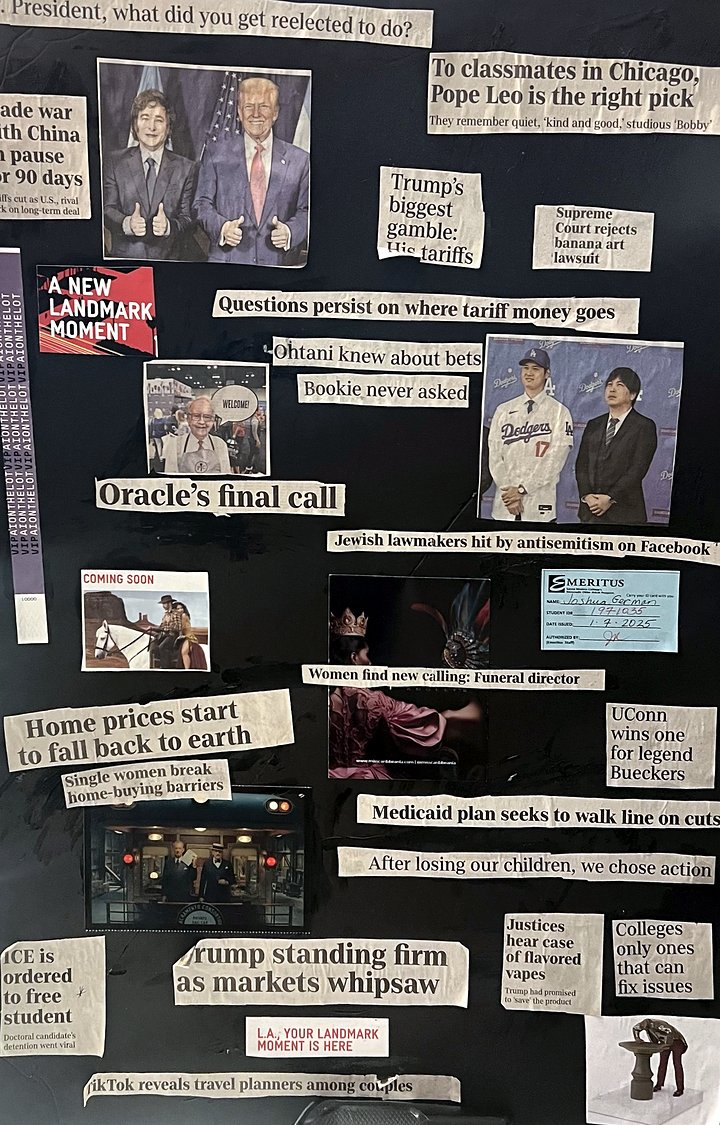
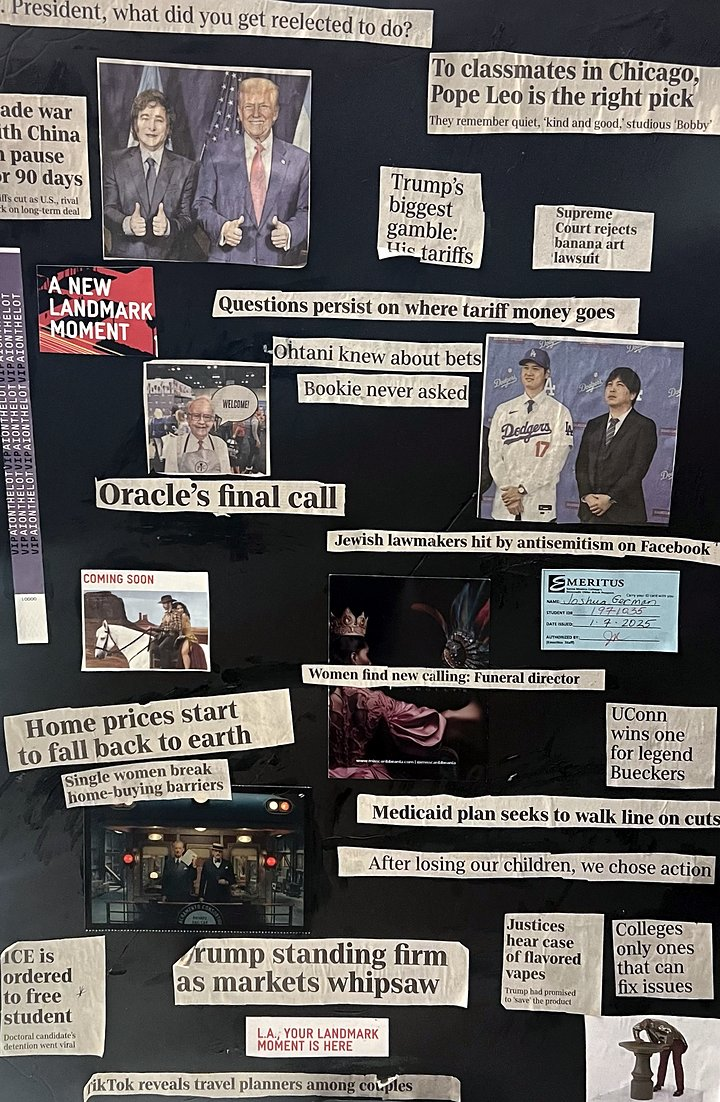
About copy, HIIKE/U&AI startup group, Art in In the Works + Shop, Media Diet page
- About: "I'm Joshua..." lede, "I'm a podcaster and producer", a little
  more detail (brands, the shows, collage).
- Map: pulse now scales around the LA dot (transform-box: fill-box)
  instead of flying in from the middle of the map.
- "The Curious & Creative Company" naming on the homepage and /network/;
  nav label "Curious & Creative".
- Brand Work: HIIKE (red wordmark) and U&AI side by side in a ringed
  "Startups · Brand & go-to-market" group; U&AI tagged Fractional Chief
  Marketing Officer. Nothing On Your Roof gets a local fallback image;
  MLB uses the real "Baseball Is Something Else" film (card + case study).
- Photography grid: the short edit never ends on a lonely half row.
- Art: collages moved into In the Works under "Art", framed, renamed
  (God's Message to You, The Adventure Above All); photos straightened
  and color-corrected; data/art.json drives the homepage and a new
  Shop Art section with inquiry links.
- Media Diet: Watching / Reading / Listening on the homepage, plus a
  full /media-diet/ page with tabs, sort, filters, search and paging.
  Sync keeps history, pages through Goodreads, drops Substack;
  Listening comes from data/listening.json.
- Contact: "Let's book your next thing." Nav switches to the menu
  button below 1120px so nothing overflows.

Claude-Session: https://claude.ai/code/session_01JxuDta5VUQ5NeC5EexMG8G

diff --git a/shop.html b/shop.html
@@ -270,10 +270,10 @@
 
 
         /* ---- Shop sections nav ---- */
-        .shop-sections { display: flex; gap: var(--s4); margin-top: var(--s5); padding-top: var(--s2); border-top: 1px solid var(--rule); }
+        .shop-sections { display: flex; flex-wrap: wrap; gap: 4px var(--s4); margin-top: var(--s5); padding-top: var(--s2); border-top: 1px solid var(--rule); }
         .shop-sections a { font-family: var(--mono); font-size: 0.64rem; font-weight: 700; letter-spacing: 0.18em; text-transform: uppercase; color: var(--ink-mid); padding: 6px 0; border-bottom: 1px solid transparent; transition: color .25s, border-color .25s; }
         .shop-sections a:hover { color: var(--ink); border-color: var(--ink); }
-        #prints, #photobooks, #photosets { scroll-margin-top: 84px; }
+        #prints, #photobooks, #photosets, #art { scroll-margin-top: 84px; }
 
         /* ---- Photo books ---- */
         .books-chapter, .sets-chapter { padding: var(--s7) 0; border-top: 1px solid var(--rule); }
@@ -321,6 +321,45 @@
         .pset-links { width: 100%; display: flex; flex-wrap: wrap; gap: 8px 22px; margin-top: 10px; }
         .pset-links a { font-family: var(--mono); font-size: 0.62rem; font-weight: 700; letter-spacing: .14em; text-transform: uppercase; border-bottom: 1px solid var(--rule); padding-bottom: 3px; }
         .pset-links a:hover { border-color: var(--ink); }
+        /* ---- Art: each collage hung like a framed piece on the wall ---- */
+        :root { --art-frame: #17140F; --art-mat: #FCFBF7; --art-shadow: rgba(23,21,18,0.30); }
+        :root[data-theme="dark"] { --art-frame: #060504; --art-mat: #EEEAE1; --art-shadow: rgba(0,0,0,0.62); }
+        :root[data-theme="dark"] .art-frame { outline: 1px solid rgba(240,234,224,0.10); }
+        .art-chapter { padding: var(--s7) 0; border-top: 1px solid var(--rule); }
+        .art-grid { display: grid; grid-template-columns: repeat(3, minmax(0, 1fr)); align-items: start; gap: clamp(44px, 6vw, 80px) clamp(28px, 4vw, 56px); margin-top: var(--s6); }
+        @media (max-width: 980px) { .art-grid { grid-template-columns: repeat(2, minmax(0, 1fr)); } }
+        @media (max-width: 620px) { .art-grid { grid-template-columns: minmax(0, 1fr); } }
+        .art-piece { display: flex; flex-direction: column; min-width: 0; }
+        /* frame (thin black moulding) > mat (white) > artwork */
+        .art-frame {
+            display: block; width: 100%; padding: clamp(14px, 7%, 30px); background: var(--art-mat);
+            border: 6px solid var(--art-frame); border-radius: 1px; cursor: zoom-in;
+            box-shadow: inset 0 1px 4px rgba(0,0,0,0.20), 0 0 0 1px rgba(255,255,255,0.04),
+                        0 2px 3px rgba(23,21,18,0.10), 0 18px 34px -16px var(--art-shadow), 0 34px 60px -34px var(--art-shadow);
+            transition: transform .5s var(--exp), box-shadow .5s var(--exp);
+        }
+        .art-frame:hover { transform: translateY(-3px); box-shadow: inset 0 1px 4px rgba(0,0,0,0.20), 0 0 0 1px rgba(255,255,255,0.04), 0 3px 5px rgba(23,21,18,0.10), 0 26px 44px -18px var(--art-shadow), 0 44px 70px -36px var(--art-shadow); }
+        .art-frame:focus-visible { outline: 2px solid var(--blue); outline-offset: 5px; }
+        .art-frame img { width: 100%; height: auto; object-fit: contain; background: var(--paper-dim); box-shadow: 0 0 0 1px rgba(23,21,18,0.14); }
+        .art-body { padding-top: var(--s3); }
+        .art-title { font-family: var(--serif); font-weight: 400; font-size: clamp(1.4rem, 2.4vw, 1.8rem); line-height: 1.1; }
+        .art-medium { font-family: var(--mono); font-size: 0.6rem; letter-spacing: .14em; text-transform: uppercase; color: var(--ink-mid); margin-top: 8px; }
+        .art-blurb { font-size: 0.92rem; line-height: 1.65; color: var(--ink-soft); margin-top: 12px; }
+        .art-buy { display: flex; flex-wrap: wrap; align-items: center; justify-content: space-between; gap: 12px 16px; margin-top: 16px; padding-top: 14px; border-top: 1px solid var(--rule); }
+        .art-status { font-family: var(--mono); font-size: 0.6rem; letter-spacing: .14em; text-transform: uppercase; color: var(--ink-faint); }
+        /* Full-size view */
+        .art-lightbox { border: 0; padding: 0; margin: auto; background: transparent; color: #F0EAE0; max-width: min(96vw, 1400px); max-height: 96vh; overflow: visible; }
+        .art-lightbox::backdrop { background: rgba(10,9,7,0.92); }
+        .art-lightbox[open] { display: flex; flex-direction: column; align-items: center; }
+        .art-lb-img { display: block; width: auto; height: auto; max-width: min(96vw, 1400px); max-height: calc(96vh - 64px); object-fit: contain; background: #1B1813; box-shadow: 0 20px 60px rgba(0,0,0,0.5); }
+        .art-lb-bar { display: flex; align-items: center; justify-content: space-between; gap: 16px; width: 100%; padding-top: 12px; }
+        .art-lb-cap { font-family: var(--serif); font-size: 1.05rem; line-height: 1.3; min-width: 0; }
+        .art-lb-cap span { display: block; font-family: var(--mono); font-size: 0.56rem; letter-spacing: .14em; text-transform: uppercase; color: rgba(240,234,224,0.6); margin-top: 3px; }
+        .art-lb-close { flex: none; width: 40px; height: 40px; border-radius: 50%; border: 1px solid rgba(240,234,224,0.35); color: #F0EAE0; display: flex; align-items: center; justify-content: center; }
+        .art-lb-close:hover { border-color: #F0EAE0; }
+        .art-lb-close:focus-visible { outline: 2px solid #9D9BFF; outline-offset: 3px; }
+        .art-lb-close svg { width: 15px; height: 15px; }
+        @media (prefers-reduced-motion: reduce) { .art-frame, .art-frame:hover { transition: none; transform: none; } }
         @media (max-width: 620px) { .shop-sections { gap: var(--s3); } .book-3d { width: 58%; } }
         @media (prefers-reduced-motion: reduce) { .book-3d { transition: none; } }
         footer.shop-footer { padding: var(--s5) 0; border-top: 1px solid var(--rule); text-align: center; }
@@ -377,6 +416,7 @@
         <a href="#prints">Prints</a>
         <a href="#photobooks">Photo Books</a>
         <a href="#photosets">Photo Sets</a>
+        <a href="#art">Art</a>
     </nav>
 
     <div class="wrap" id="prints">
@@ -418,6 +458,28 @@
             </div>
         </div>
     </section>
+
+    <!-- =====================================================
+         ART (rendered from data/art.json)
+         ===================================================== -->
+    <section class="art-chapter" id="art" aria-labelledby="artTitle">
+        <div class="wrap">
+            <div class="shop-kicker rv">Art</div>
+            <h2 class="shop-title rv rv-d1" id="artTitle" style="font-size: clamp(2.2rem, 5.5vw, 3.8rem);">Cut <span class="it accent">&amp; paste.</span></h2>
+            <p class="shop-intro rv rv-d2">Collages built from newsprint, ads and ephemera on board, with the headlines kept as they ran. Each one is an original. Tap a piece to see it full size.</p>
+            <div class="art-grid" id="artGrid">
+                <noscript><p class="books-note">Six collages live here: Just Curious, God&rsquo;s Message to You, Questions Persist, City of Dreams, The Adventure Above All and Halfway to History. <a href="mailto:jgerms20@gmail.com?subject=Art%20inquiry">Email me</a> to ask about a piece.</p></noscript>
+            </div>
+        </div>
+    </section>
+
+    <dialog class="art-lightbox" id="artLightbox" aria-labelledby="artLbTitle">
+        <img class="art-lb-img" id="artLbImg" alt="">
+        <div class="art-lb-bar">
+            <p class="art-lb-cap" id="artLbTitle"></p>
+            <button class="art-lb-close" id="artLbClose" type="button" aria-label="Close full-size view"><svg viewBox="0 0 24 24" fill="none" stroke="currentColor" stroke-width="2" stroke-linecap="round" stroke-linejoin="round"><path d="M18 6L6 18M6 6l12 12"/></svg></button>
+        </div>
+    </dialog>
 
     <!-- =====================================================
          PRINT + FRAME ADVISORY
@@ -1017,6 +1079,111 @@
                 setsGrid.appendChild(note);
             }
         });
+    })();
+    </script>
+
+    <script>
+    // Art: collages from data/art.json. Data is only written with textContent,
+    // and image URLs must be relative or https.
+    (function () {
+        var EMAIL = 'jgerms20@gmail.com';
+        var grid = document.getElementById('artGrid');
+        var box = document.getElementById('artLightbox');
+        var boxImg = document.getElementById('artLbImg');
+        var boxCap = document.getElementById('artLbTitle');
+        var opener = null;
+        if (!grid) return;
+        function el(tag, cls, text) { var n = document.createElement(tag); if (cls) n.className = cls; if (text != null) n.textContent = text; return n; }
+        function str(v) { return typeof v === 'string' ? v.trim() : ''; }
+        function artUrl(v) {
+            v = str(v); if (!v) return '';
+            if (/^[a-z][a-z0-9+.-]*:/i.test(v) || v.indexOf('//') === 0) {
+                try { var u = new URL(v, location.href); return u.protocol === 'https:' ? u.href : ''; } catch (e) { return ''; }
+            }
+            return /^[\w\-./]+$/.test(v) && v.indexOf('..') === -1 ? v : '';
+        }
+        function mail(subject) { return 'mailto:' + EMAIL + '?subject=' + encodeURIComponent(subject); }
+
+        function openFull(piece, trigger) {
+            if (!box || typeof box.showModal !== 'function') { location.href = piece.full; return; }
+            opener = trigger;
+            boxImg.removeAttribute('src');
+            boxImg.alt = piece.alt;
+            boxImg.src = piece.full;
+            boxCap.textContent = piece.title;
+            if (piece.medium) boxCap.appendChild(el('span', null, piece.medium));
+            box.showModal();
+            document.body.classList.add('lock');
+            document.getElementById('artLbClose').focus({ preventScroll: true });
+        }
+        if (box) {
+            document.getElementById('artLbClose').addEventListener('click', function () { box.close(); });
+            // Click on the dimmed backdrop (outside the picture and caption) closes it
+            box.addEventListener('click', function (e) { if (e.target === box) box.close(); });
+            box.addEventListener('close', function () {
+                document.body.classList.remove('lock');
+                if (opener && document.contains(opener)) opener.focus({ preventScroll: true });
+                opener = null;
+            });
+        }
+
+        function artCard(p) {
+            var title = str(p.title) || 'Untitled';
+            var medium = str(p.medium);
+            var thumb = artUrl(p.thumb) || artUrl(p.image);
+            var full = artUrl(p.image) || thumb;
+            var card = el('article', 'art-piece rv in');
+            if (thumb) {
+                var frame = el('button', 'art-frame');
+                frame.type = 'button';
+                frame.setAttribute('aria-label', 'View ' + title + ' full size');
+                var img = el('img');
+                var size = Array.isArray(p.thumb_size) ? p.thumb_size : [];
+                if (size[0] > 0 && size[1] > 0) { img.width = size[0]; img.height = size[1]; }
+                img.alt = title + ', collage of newsprint and ads on board';
+                img.loading = 'lazy'; img.decoding = 'async'; img.src = thumb;
+                frame.appendChild(img);
+                var piece = { title: title, medium: medium, full: full, alt: img.alt };
+                frame.addEventListener('click', function () { openFull(piece, frame); });
+                card.appendChild(frame);
+            }
+            var body = el('div', 'art-body');
+            body.appendChild(el('h3', 'art-title', title));
+            if (medium) body.appendChild(el('p', 'art-medium', medium));
+            if (str(p.blurb)) body.appendChild(el('p', 'art-blurb', str(p.blurb)));
+            var buy = el('div', 'art-buy');
+            var btn = el('a', 'book-btn');
+            if (p.for_sale === true && typeof p.price === 'number' && p.price > 0) {
+                buy.appendChild(el('span', 'book-price', '$' + p.price));
+                btn.textContent = 'Request it';
+                btn.href = mail('Art order: ' + title);
+            } else {
+                buy.appendChild(el('span', 'art-status', 'Original'));
+                btn.textContent = 'Inquire about this piece';
+                btn.className += ' is-quiet';
+                btn.href = mail('Art inquiry: ' + title);
+            }
+            buy.appendChild(btn);
+            body.appendChild(buy);
+            card.appendChild(body);
+            return card;
+        }
+
+        fetch('data/art.json', { cache: 'no-cache' })
+            .then(function (r) { return r.ok ? r.json() : null; })
+            .catch(function () { return null; })
+            .then(function (data) {
+                var pieces = data && Array.isArray(data.pieces) ? data.pieces.filter(function (p) { return p && typeof p === 'object' && str(p.title); }) : [];
+                grid.textContent = '';
+                if (!pieces.length) {
+                    var note = el('p', 'books-note', 'The collages are on their way back up. ');
+                    var a = el('a', null, 'Email me'); a.href = mail('Art inquiry'); note.appendChild(a);
+                    note.appendChild(document.createTextNode(' to ask about a piece.'));
+                    grid.appendChild(note);
+                    return;
+                }
+                pieces.forEach(function (p) { grid.appendChild(artCard(p)); });
+            });
     })();
     </script>
 <script src="assets/media.js" defer></script>

diff --git a/index.html b/index.html
@@ -644,8 +644,12 @@
         .works-art-intro { max-width: 640px; margin-top: 16px; font-size: 0.98rem; line-height: 1.65; color: var(--ink-soft); }
         .art-wall { display: grid; grid-template-columns: repeat(3, minmax(0, 1fr)); gap: clamp(40px, 5vw, 64px) clamp(24px, 3.4vw, 48px); align-items: start; margin-top: clamp(28px, 4vw, 44px); }
         .art-piece { margin: 0; }
-        .art-frame { background: #FBF9F4 !important; padding: clamp(10px, 1.3vw, 16px) !important; border: clamp(6px, .7vw, 9px) solid #161412 !important; box-shadow: 0 2px 0 rgba(0,0,0,.08), 0 24px 44px -24px rgba(23,21,18,.65); }
-        .art-frame img { box-shadow: inset 0 0 0 1px rgba(0,0,0,.06) !important; }
+        :root { --art-frame: #17140F; --art-mat: #FCFBF7; --art-shadow: rgba(23,21,18,.30); }
+        :root[data-theme="dark"] { --art-frame: #060504; --art-mat: #EEEAE1; --art-shadow: rgba(0,0,0,.62); }
+        :root[data-theme="dark"] .art-frame { outline: 1px solid rgba(240,234,224,.10); }
+        .art-frame { display: block; width: 100%; padding: clamp(14px, 7%, 30px) !important; background: var(--art-mat) !important; border: 6px solid var(--art-frame) !important; border-radius: 1px;
+            box-shadow: inset 0 1px 4px rgba(0,0,0,.20), 0 2px 3px rgba(23,21,18,.10), 0 18px 34px -16px var(--art-shadow), 0 34px 60px -34px var(--art-shadow); }
+        .art-frame img { width: 100%; height: auto; object-fit: contain; background: var(--paper-dim); box-shadow: 0 0 0 1px rgba(23,21,18,.14) !important; }
         @media (max-width: 980px) { .art-wall { grid-template-columns: repeat(2, minmax(0, 1fr)); } }
         @media (max-width: 600px) { .art-wall { grid-template-columns: 1fr; } }
         .art-open { display: block; width: 100%; padding: 0; border: 0; background: none; cursor: zoom-in; }
@@ -2634,7 +2638,7 @@
                 <div class="art-wall">
                     <figure class="art-piece rv">
                         <button type="button" class="art-open art-frame" data-full="photos/art/just-curious.jpg" aria-label="Open Just Curious full size">
-                            <img src="photos/art/just-curious-sm.jpg" alt="Collage: Just Curious" width="720" height="962" loading="lazy" decoding="async">
+                            <img src="photos/art/just-curious-sm.jpg" alt="Collage: Just Curious" width="720" height="1061" loading="lazy" decoding="async">
                         </button>
                         <figcaption>
                             <span class="art-num">No. 01</span>
@@ -2644,7 +2648,7 @@
                     </figure>
                     <figure class="art-piece rv rv-d1">
                         <button type="button" class="art-open art-frame" data-full="photos/art/gods-message-to-you.jpg" aria-label="Open God&#x27;s Message to You full size">
-                            <img src="photos/art/gods-message-to-you-sm.jpg" alt="Collage: God&#x27;s Message to You" width="720" height="965" loading="lazy" decoding="async">
+                            <img src="photos/art/gods-message-to-you-sm.jpg" alt="Collage: God&#x27;s Message to You" width="720" height="979" loading="lazy" decoding="async">
                         </button>
                         <figcaption>
                             <span class="art-num">No. 02</span>
@@ -2654,7 +2658,7 @@
                     </figure>
                     <figure class="art-piece rv rv-d2">
                         <button type="button" class="art-open art-frame" data-full="photos/art/questions-persist.jpg" aria-label="Open Questions Persist full size">
-                            <img src="photos/art/questions-persist-sm.jpg" alt="Collage: Questions Persist" width="720" height="1020" loading="lazy" decoding="async">
+                            <img src="photos/art/questions-persist-sm.jpg" alt="Collage: Questions Persist" width="720" height="1102" loading="lazy" decoding="async">
                         </button>
                         <figcaption>
                             <span class="art-num">No. 03</span>
@@ -2664,7 +2668,7 @@
                     </figure>
                     <figure class="art-piece rv">
                         <button type="button" class="art-open art-frame" data-full="photos/art/city-of-dreams.jpg" aria-label="Open City of Dreams full size">
-                            <img src="photos/art/city-of-dreams-sm.jpg" alt="Collage: City of Dreams" width="720" height="871" loading="lazy" decoding="async">
+                            <img src="photos/art/city-of-dreams-sm.jpg" alt="Collage: City of Dreams" width="720" height="929" loading="lazy" decoding="async">
                         </button>
                         <figcaption>
                             <span class="art-num">No. 04</span>
@@ -2674,7 +2678,7 @@
                     </figure>
                     <figure class="art-piece rv rv-d1">
                         <button type="button" class="art-open art-frame" data-full="photos/art/the-adventure-above-all.jpg" aria-label="Open The Adventure Above All full size">
-                            <img src="photos/art/the-adventure-above-all-sm.jpg" alt="Collage: The Adventure Above All" width="720" height="855" loading="lazy" decoding="async">
+                            <img src="photos/art/the-adventure-above-all-sm.jpg" alt="Collage: The Adventure Above All" width="720" height="930" loading="lazy" decoding="async">
                         </button>
                         <figcaption>
                             <span class="art-num">No. 05</span>
@@ -2684,7 +2688,7 @@
                     </figure>
                     <figure class="art-piece rv rv-d2">
                         <button type="button" class="art-open art-frame" data-full="photos/art/halfway-to-history.jpg" aria-label="Open Halfway to History full size">
-                            <img src="photos/art/halfway-to-history-sm.jpg" alt="Collage: Halfway to History" width="720" height="1123" loading="lazy" decoding="async">
+                            <img src="photos/art/halfway-to-history-sm.jpg" alt="Collage: Halfway to History" width="720" height="1119" loading="lazy" decoding="async">
                         </button>
                         <figcaption>
                             <span class="art-num">No. 06</span>

diff --git a/tests/test_shop_art.py b/tests/test_shop_art.py
@@ -1,0 +1,84 @@
+import json
+from pathlib import Path
+import re
+import unittest
+
+from PIL import Image
+
+ROOT = Path(__file__).resolve().parents[1]
+SHOP = (ROOT / "shop.html").read_text(encoding="utf-8")
+ART = json.loads((ROOT / "data/art.json").read_text(encoding="utf-8"))
+
+
+def art_script():
+    start = SHOP.index("// Art: collages from data/art.json.")
+    return SHOP[start: SHOP.index("</script>", start)]
+
+
+class ArtDataTests(unittest.TestCase):
+    def test_six_pieces_with_the_fields_the_pages_read(self):
+        pieces = ART["pieces"]
+        self.assertEqual(len(pieces), 6)
+        slugs = [p["slug"] for p in pieces]
+        self.assertEqual(len(set(slugs)), 6, slugs)
+        for p in pieces:
+            for key in ("title", "blurb", "medium", "image", "thumb"):
+                self.assertIsInstance(p.get(key), str, (p["slug"], key))
+                self.assertTrue(p[key].strip(), (p["slug"], key))
+            self.assertIsInstance(p.get("for_sale"), bool, p["slug"])
+            if p["for_sale"] and "price" in p:
+                self.assertIsInstance(p["price"], (int, float))
+
+    def test_image_files_exist_and_thumb_size_matches(self):
+        for p in ART["pieces"]:
+            self.assertEqual(p["image"], f"photos/art/{p['slug']}.jpg")
+            self.assertEqual(p["thumb"], f"photos/art/{p['slug']}-sm.jpg")
+            full, thumb = ROOT / p["image"], ROOT / p["thumb"]
+            self.assertTrue(full.is_file(), p["image"])
+            self.assertTrue(thumb.is_file(), p["thumb"])
+            with Image.open(thumb) as im:
+                self.assertEqual(list(im.size), list(p["thumb_size"]), p["thumb"])
+                self.assertEqual(im.width, 720, p["thumb"])
+            with Image.open(full) as im:
+                self.assertLessEqual(max(im.size), 2000, p["image"])
+
+
+class ShopArtSectionTests(unittest.TestCase):
+    def test_art_section_and_nav_link(self):
+        self.assertIn('id="art"', SHOP)
+        self.assertIn('id="artGrid"', SHOP)
+        nav = SHOP[SHOP.index('class="shop-sections'):]
+        nav = nav[: nav.index("</nav>")]
+        self.assertEqual(re.findall(r'href="#(\w+)"', nav), ["prints", "photobooks", "photosets", "art"])
+
+    def test_art_is_rendered_from_data_with_text_content_only(self):
+        script = art_script()
+        self.assertIn("fetch('data/art.json'", script)
+        self.assertIn("textContent", script)
+        for sink in ("innerHTML", "outerHTML", "insertAdjacentHTML", "document.write"):
+            self.assertNotIn(sink, script)
+
+    def test_urls_are_restricted_to_relative_or_https(self):
+        script = art_script()
+        self.assertIn("u.protocol === 'https:'", script)
+        self.assertNotIn("'http:'", script)
+
+    def test_inquiry_and_order_mailtos(self):
+        script = art_script()
+        self.assertIn("mailto:", script)
+        self.assertIn("jgerms20@gmail.com", script)
+        self.assertIn("'Art inquiry: ' + title", script)
+        self.assertIn("Inquire about this piece", script)
+        self.assertIn("Request it", script)
+
+    def test_full_size_view_and_noscript_fallback(self):
+        self.assertIn('<dialog class="art-lightbox" id="artLightbox"', SHOP)
+        self.assertIn("showModal", art_script())
+        section = SHOP[SHOP.index('id="art"'):]
+        section = section[: section.index("</section>")]
+        self.assertIn("<noscript>", section)
+        self.assertIn("mailto:jgerms20@gmail.com?subject=Art%20inquiry", section)
+
+
+if __name__ == "__main__":
+    unittest.main()
